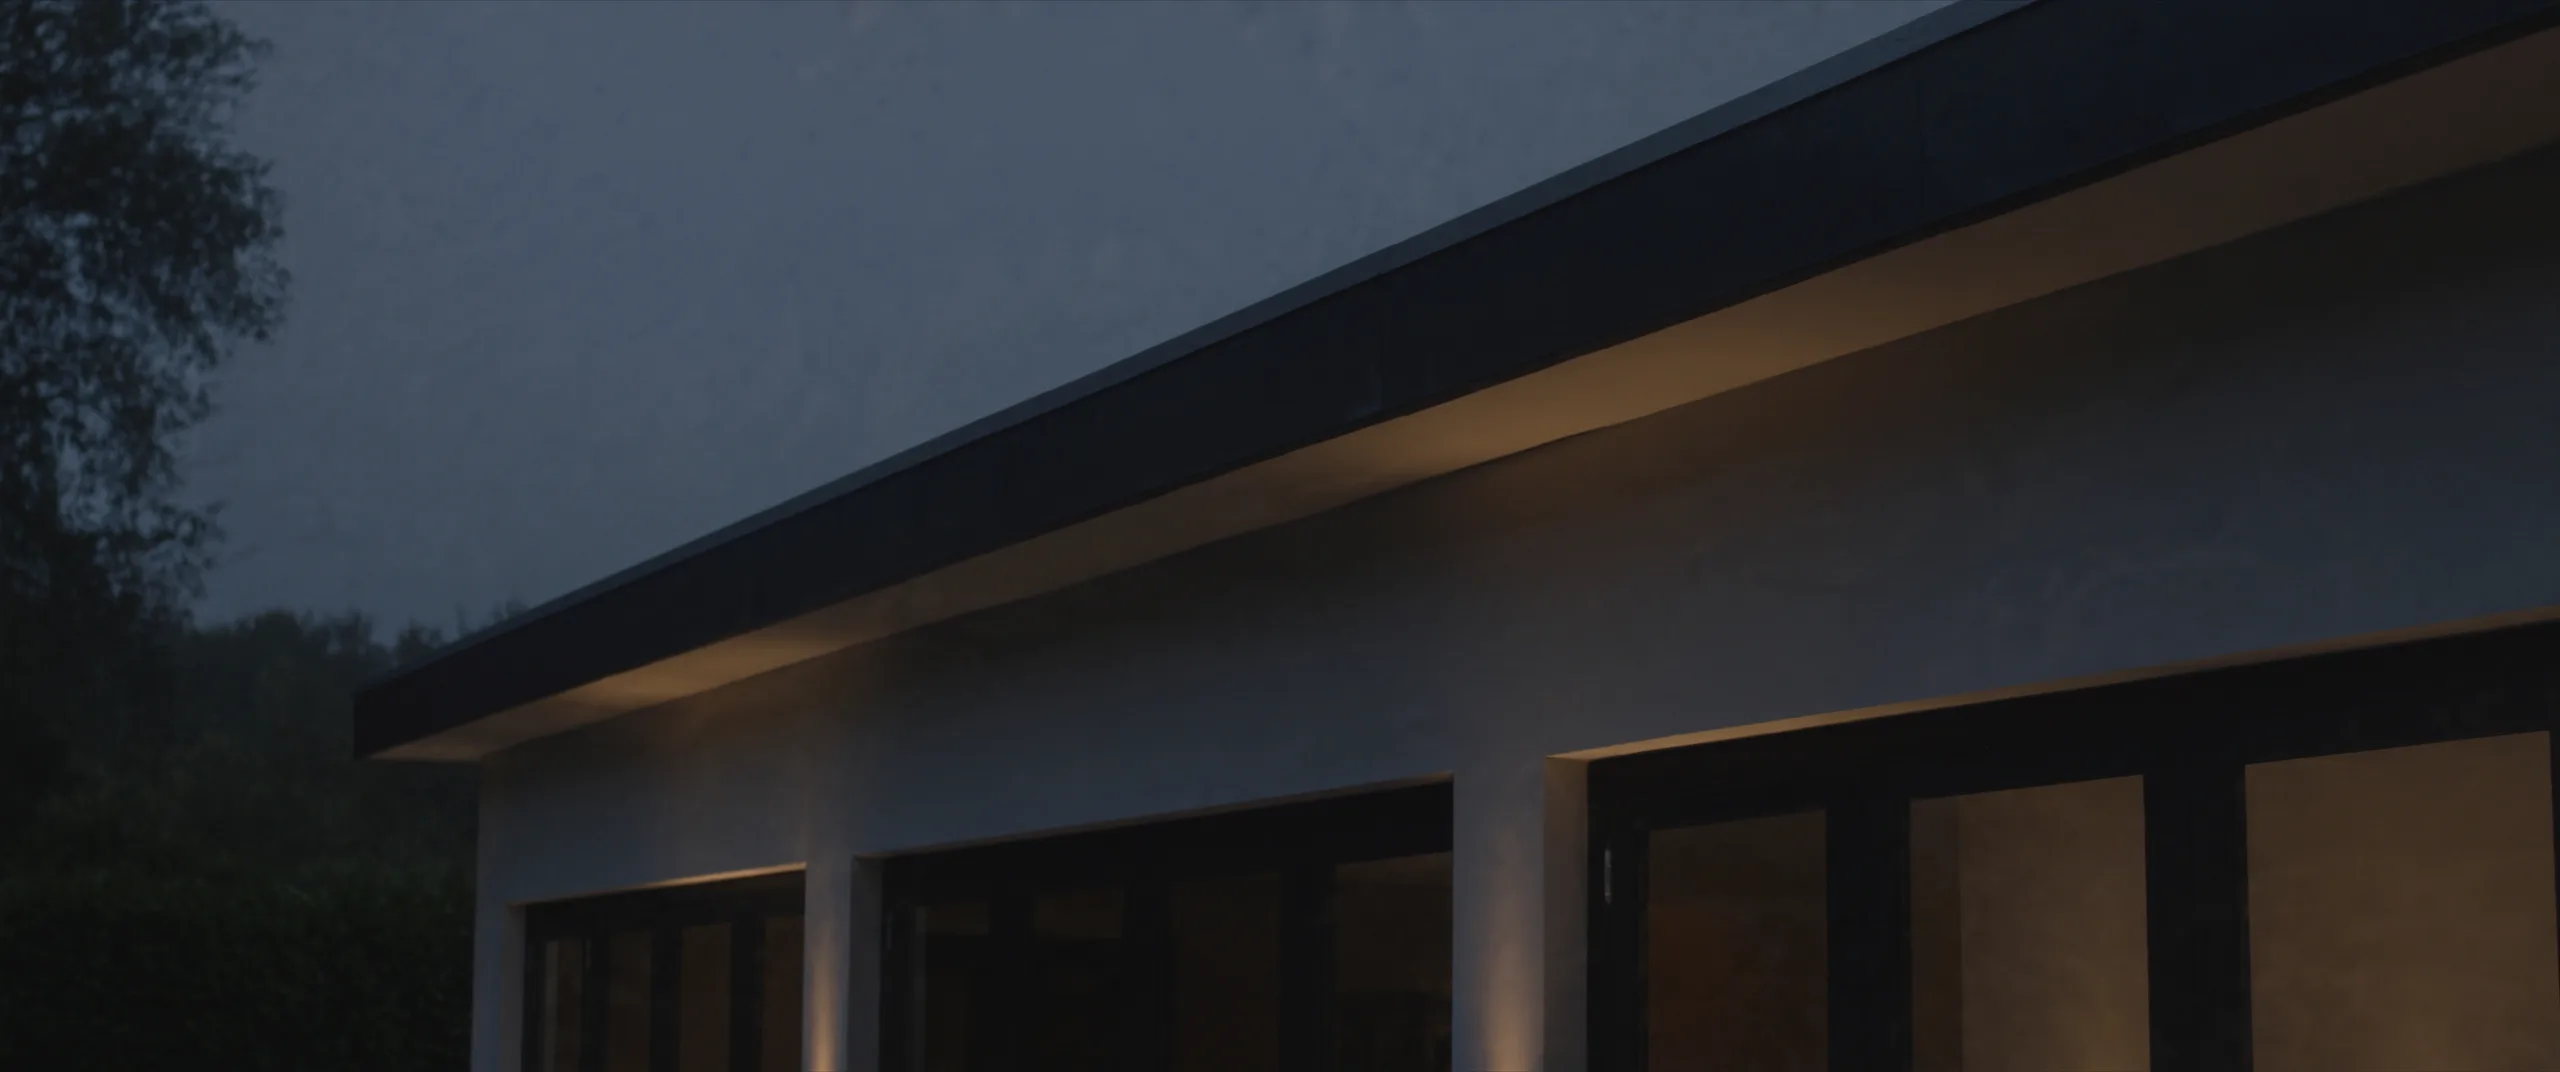
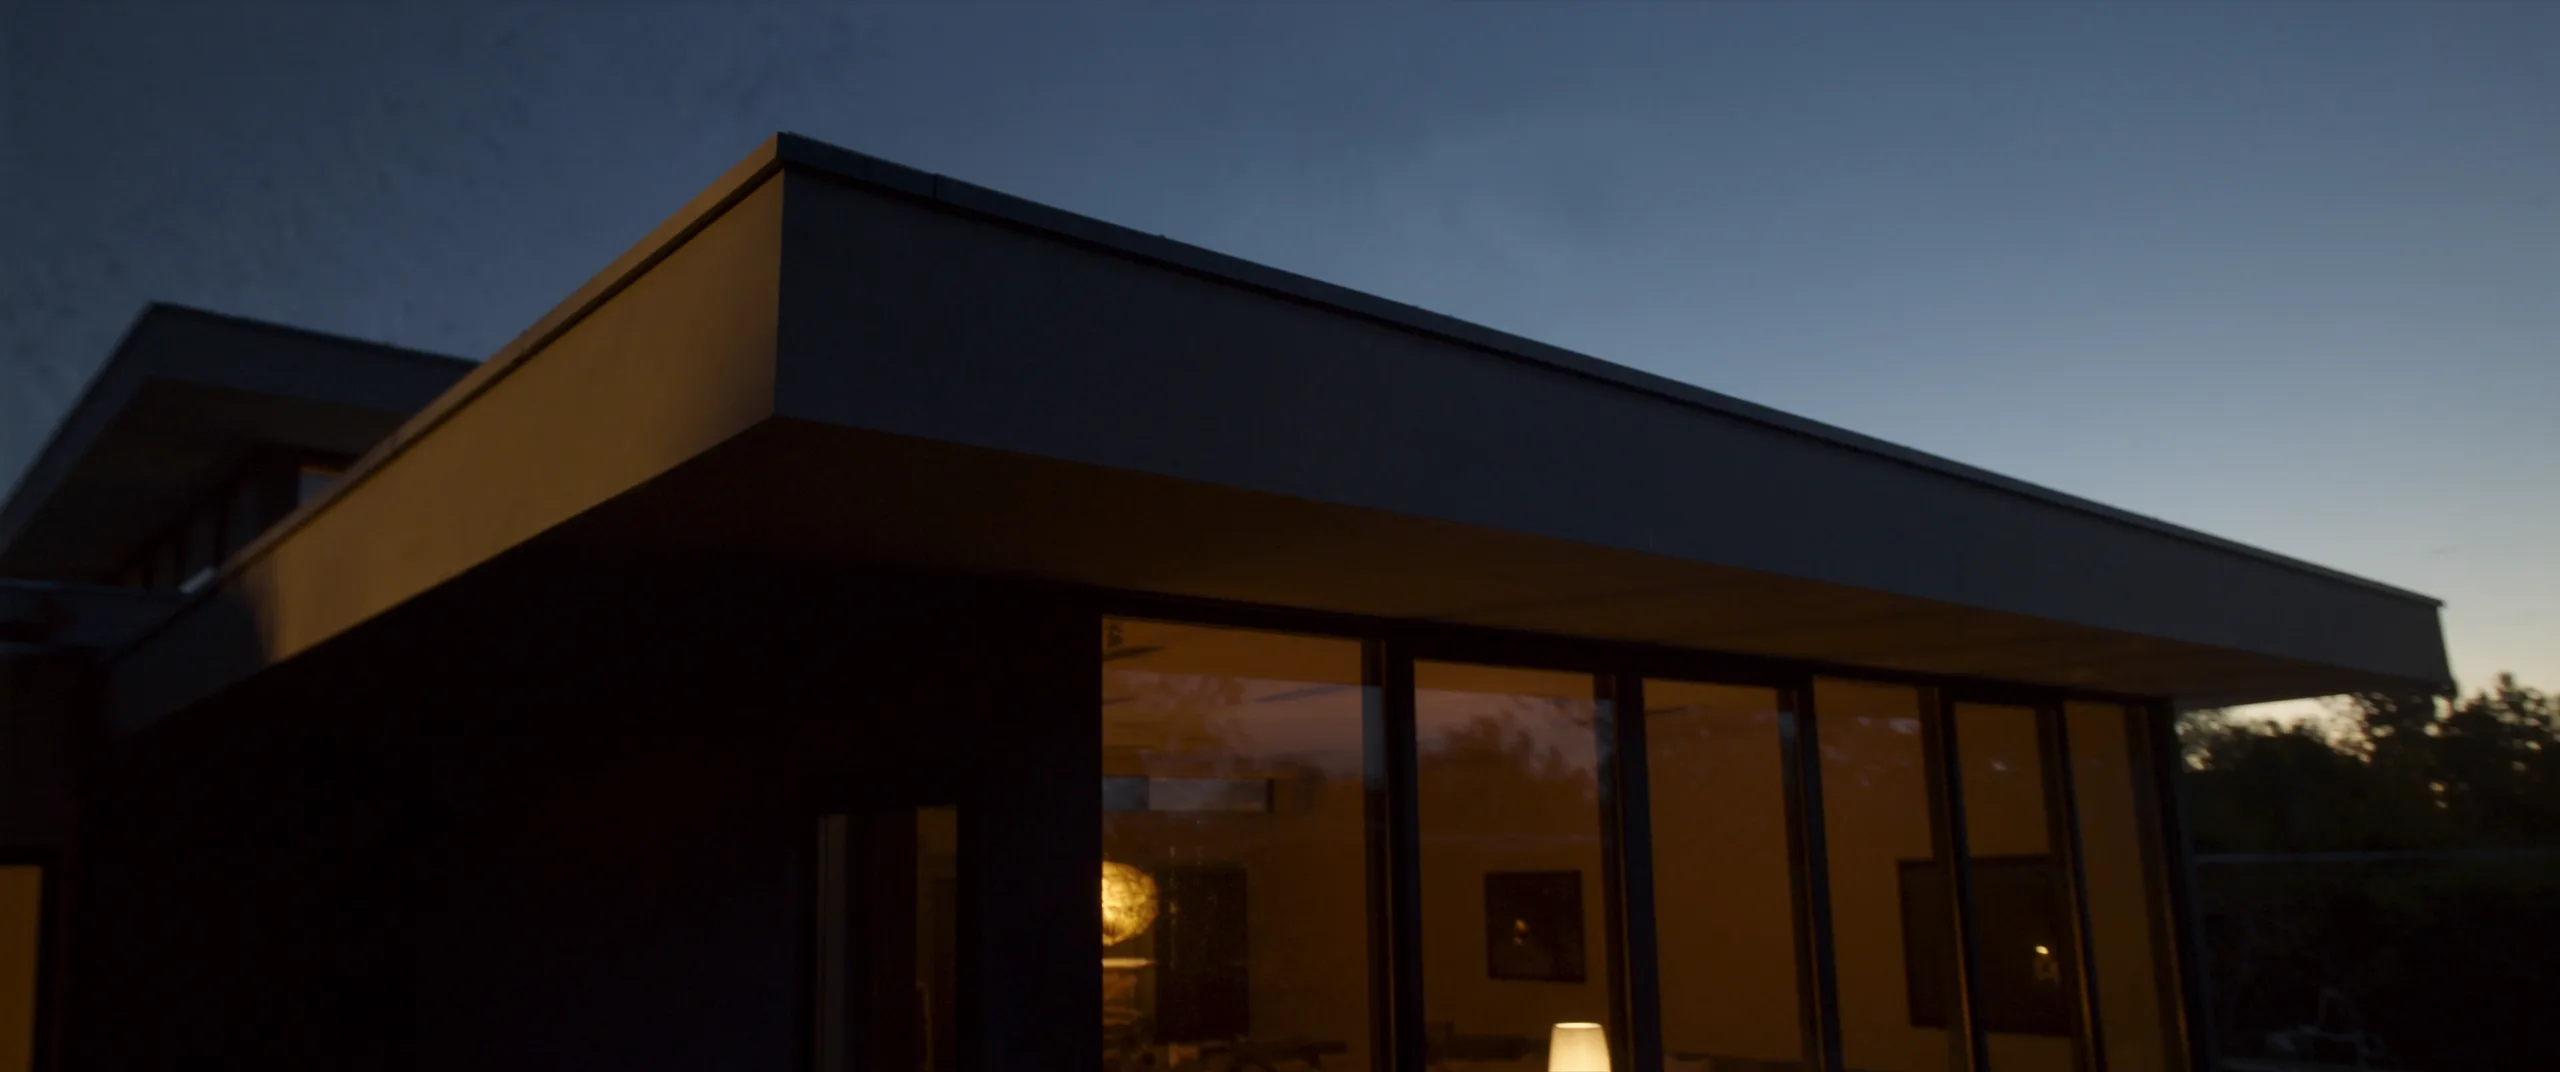
fix: hero wordmark/headline collision, dead space, and duplicate-key bug
The hero was unreadable: the giant TAMAR wordmark and the H1 headline
occupied the same vertical band and rendered directly on top of each
other. Fixes:

- Wordmark now pinned to a compact upper band (clamp 3rem-9rem, was
  4rem-16rem); headline/copy/CTAs now anchored to the bottom of the
  frame in their own block. The two can no longer collide regardless
  of viewport width or copy length.
- Added text-shadow to the bottom-anchored headline for legibility
  against varying photo brightness.
- Replaced the hero photo with a better-composed generation (clear
  sky band for the wordmark, roofline+glazing detail filling the rest
  of the frame) — the previous photo's tall plain wall segment was
  reading as dead space once the layout no longer masked it.
- Removed the homepage's second audience-fork section: it repeated
  the hero's own fork cards verbatim immediately below the hero,
  reading as redundant/templated rather than intentional.
- Fixed a real bug surfaced by the Next.js dev overlay: both
  placeholder reviews shared the literal author string
  "[CONFIRM: real reviewer name]", so React logged a duplicate-key
  warning on every render. Keyed by town+index instead.

diff --git a/components/marketing/Hero.tsx b/components/marketing/Hero.tsx
@@ -53,43 +53,48 @@ export function Hero({ posterSrc, videoSrc }: HeroProps) {
         transition={{ duration: shouldReduceMotion ? 0 : 0.7, ease: [0.16, 1, 0.3, 1] }}
       />
 
-      {/* Occluded wordmark — sits behind the fork cards, above the background. */}
-      <div className="absolute inset-x-0 top-0 flex justify-center overflow-hidden pointer-events-none" aria-hidden="true">
-        <span
-          className="font-display font-extrabold text-white/90 leading-none tracking-[-0.03em]"
-          style={{ fontSize: 'clamp(4rem, 18vw, 16rem)' }}
-        >
-          TAMAR
-        </span>
+      {/* Wordmark — pinned to the upper band of the frame, sized to stay clear of the
+          headline block anchored at the bottom. Never let these two collide. */}
+      <div className="absolute inset-x-0 top-[6%] overflow-hidden pointer-events-none" aria-hidden="true">
+        <div className="mx-auto max-w-7xl px-4">
+          <span
+            className="block font-display font-extrabold text-white/95 leading-none tracking-[-0.03em]"
+            style={{ fontSize: 'clamp(3rem, 11vw, 9rem)' }}
+          >
+            TAMAR
+          </span>
+        </div>
       </div>
 
-      <div className="relative mx-auto max-w-7xl px-4 pt-16 pb-24 flex flex-col items-start gap-6">
+      {/* Headline block — anchored to the bottom of the frame, over the darker lower
+          portion of the photo, so it never competes with the wordmark above it. */}
+      <div className="absolute inset-x-0 bottom-0 mx-auto max-w-7xl px-4 pb-12 flex flex-col items-start gap-5">
         <p className="font-mono text-sm text-white tracking-wide">
           SALTASH, CORNWALL · EST. AS CARLTON PLASTICS
         </p>
 
-        <h1 className="font-display font-extrabold text-white text-3xl sm:text-4xl max-w-3xl">
+        <h1 className="font-display font-extrabold text-white text-2xl sm:text-3xl max-w-2xl [text-shadow:0_2px_16px_rgba(0,0,0,0.5)]">
           uPVC windows, doors and roofline. Supplied over the counter or fitted by us.
         </h1>
 
-        <p className="font-body text-white/90 text-lg max-w-2xl">
+        <p className="font-body text-white/90 text-base max-w-xl [text-shadow:0_1px_8px_rgba(0,0,0,0.5)]">
           Trade counter on Gwel Avon Business Park. Free surveys across Cornwall and Plymouth.
           Same number you&apos;ve always called: 01752 841234.
         </p>
 
-        <div className="grid gap-4 sm:grid-cols-2 w-full max-w-2xl pt-4">
+        <div className="grid gap-3 sm:grid-cols-2 w-full max-w-xl pt-2">
           <Link
             href="/trade/"
-            className="min-h-[44px] flex flex-col justify-center bg-white text-tamar-black p-6 rounded-sm hover:bg-white/90"
+            className="min-h-[44px] flex flex-col justify-center bg-white text-tamar-black p-5 rounded-sm hover:bg-white/90"
           >
-            <span className="font-display font-bold text-xl">Buying for a job?</span>
+            <span className="font-display font-bold text-lg">Buying for a job?</span>
             <span className="font-body text-sm text-ink-600">Trade &amp; Supply Only →</span>
           </Link>
           <Link
             href="/home-improvements/"
-            className="min-h-[44px] flex flex-col justify-center bg-tamar-black border border-white/20 text-white p-6 rounded-sm hover:bg-tamar-black/80"
+            className="min-h-[44px] flex flex-col justify-center bg-tamar-black border border-white/20 text-white p-5 rounded-sm hover:bg-tamar-black/80"
           >
-            <span className="font-display font-bold text-xl">Improving your home?</span>
+            <span className="font-display font-bold text-lg">Improving your home?</span>
             <span className="font-body text-sm text-ink-200">Supply &amp; Fit →</span>
           </Link>
         </div>

diff --git a/app/page.tsx b/app/page.tsx
@@ -1,6 +1,5 @@
 import Link from 'next/link';
 import { Hero } from '@/components/marketing/Hero';
-import { AudienceForkCard } from '@/components/marketing/AudienceForkCard';
 import { ProofBand } from '@/components/marketing/ProofBand';
 import { ReviewCard } from '@/components/marketing/ReviewCard';
 import { CounterStatus } from '@/components/marketing/CounterStatus';
@@ -15,23 +14,7 @@ export default function HomePage() {
     <>
       <Hero posterSrc="/images/hero-roofline.webp" />
 
-      {/* Section 2: Audience fork (secondary, lower-page reinforcement of the hero's own fork) */}
-      <section className="mx-auto max-w-7xl px-4 py-16 grid gap-6 sm:grid-cols-2">
-        <AudienceForkCard
-          variant="trade"
-          title="Buying for a job?"
-          description="Open a trade account, check stock and collect from the counter in Saltash."
-          href="/trade/"
-        />
-        <AudienceForkCard
-          variant="home"
-          title="Improving your home?"
-          description="Book a free survey for windows, doors or roofline, supplied and fitted."
-          href="/home-improvements/"
-        />
-      </section>
-
-      {/* Section 3: Product grid */}
+      {/* Section 3: Product grid (the hero already carries the audience fork — no need to repeat it immediately below) */}
       <section className="bg-ink-050 py-16">
         <div className="mx-auto max-w-7xl px-4">
           <h2 className="font-display font-bold text-2xl text-tamar-black mb-8">What we stock and fit</h2>
@@ -92,8 +75,8 @@ export default function HomePage() {
         <div className="mx-auto max-w-7xl px-4">
           <h2 className="font-display font-bold text-2xl text-tamar-black mb-8">What people say</h2>
           <div className="grid gap-4 sm:grid-cols-2">
-            {PLACEHOLDER_REVIEWS.map((review) => (
-              <ReviewCard key={review.author} review={review} />
+            {PLACEHOLDER_REVIEWS.map((review, index) => (
+              <ReviewCard key={`${review.town}-${index}`} review={review} />
             ))}
           </div>
         </div>
